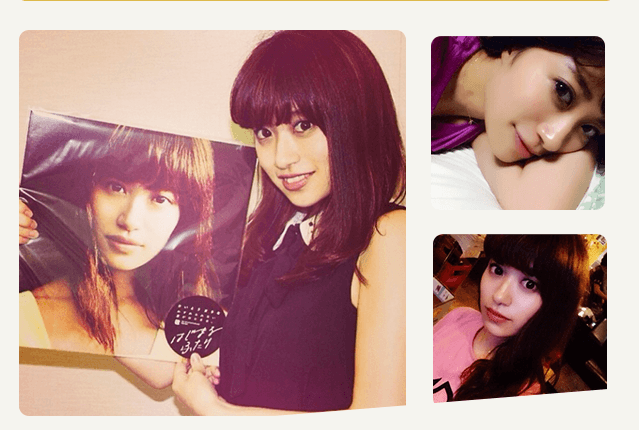
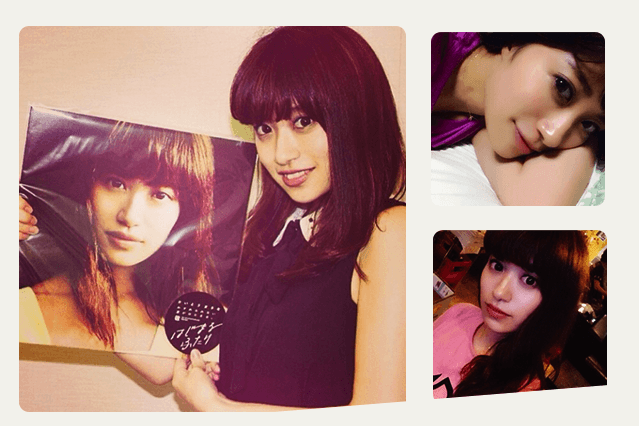
画像整理

diff --git a/sp.html b/sp.html
@@ -5,26 +5,31 @@ title: さいとうまりな official home page
 <div id="content">
 <img src="./images/marina_01.png" width="100%">
 <!--ここから白-->
+<div class="white">
 <img src="./images/sp_top_01.png" width="100%">
+</div><!-- <div class="white"> -->
 <!--ここからグレー-->
+<div class="gray">
 <img src="./images/sp_top_02.png" width="100%">
 <a class="music" onclick="_gaq.push(['_trackEvent', 'song1', '再生', 'opt_label', 1, true]);" ><audio src="/m4a/01.m4a"><p>audioタグをサポートしたブラウザで閲覧してください</p></audio><img src="./images/btn1.png" width="100%"></a>
 <a class="music" onclick="_gaq.push(['_trackEvent', 'song2', '再生', 'opt_label', 1, true]);"><audio src="/m4a/02.m4a"><p>audioタグをサポートしたブラウザで閲覧してください</p></audio><img src="./images/btn2.png" width="100%"></a>
 <a class="music" onclick="_gaq.push(['_trackEvent', 'song3', '再生', 'opt_label', 1, true]);"><audio src="/m4a/03.m4a"><p>audioタグをサポートしたブラウザで閲覧してください</p></audio><img src="./images/btn3.png" width="100%"></a>
 
-<div class="padding_gray_5px"></div>
+<div class="padding_5px"></div>
 
 <a class="music" onclick="_gaq.push(['_trackEvent', 'song4', '再生', 'opt_label', 1, true]);"><audio src="/m4a/04.m4a"><p>audioタグをサポートしたブラウザで閲覧してください</p></audio><img src="./images/btn4.png" width="100%"></a>
 
-<div class="padding_gray_10px"></div>
+<div class="padding_10px"></div>
 
 <a href="https://itunes.apple.com/jp/album/hajimaru-futari-ep/id890830196" onclick="_gaq.push(['_trackEvent', 'itunes', 'click', 'first', 1, true]);"><img src="./images/itunes.png" width="100%"></a>
 <div class="padding_gray_10px"></div>
+</div>
 <!--ここまでグレー-->
 <img src="./images/marina_02.jpg" width="100%">
 
 
 <!--ここから白-->
+<div class="white">
 <img src="./images/sp_top_03.png" width="100%">
 <img src="./images/cover_this.png" width="100%">
 
@@ -36,26 +41,29 @@ title: さいとうまりな official home page
 <div class="padding_10px"></div>
 <img src="./images/sp_top_05.png" width="100%">
 <a href="http://www.universal-music.co.jp/saito-marina" onclick="_gaq.push(['_trackEvent', 'prof', 'link', '公式ページへ', 1, true]);"><img src="./images/more.png" width="100%"></a>
-<div class="padding">
+</div>
 
+
+<div class="padding">
+<div class="gray">
 
 <!--ここからグレー-->
 <img src="./images/sns_top.png" width="100%">
 <a href="https://mobile.twitter.com/Saito_Marina" onclick="_gaq.push(['_trackEvent', 'twitter', 'link', 'opt_label', 1, true]);"><img src="./images/twitter_btn.png" width="100%"></a>
 <a href="http://instagram.com/saito_marina" onclick="_gaq.push(['_trackEvent', 'insta', 'link', 'first', 1, true]);"><img src="./images/sp_top_08.png" width="100%"></a>
 <a href="http://instagram.com/saito_marina" onclick="_gaq.push(['_trackEvent', 'insta', 'link', 'second', 1, true]);"><img src="./images/insta_btn.png" width="100%"></a>
+</div>
 <img src="./images/sns_bottom.png" width="100%">
 </div>
+
 <!--ここから白-->
+<div class="white">
 <div class="padding_10px"></div>
-
-
 <div class="padding_10px"></div>
-
 <img src="./images/marina_05.png" width="100%">
 <img src="./images/hajimaru.png" width="100%">
 <div class="padding_10px"></div>
 <a href="https://itunes.apple.com/jp/album/hajimaru-futari-ep/id890830196" onclick="_gaq.push(['_trackEvent', 'itunes', 'link', 'second', 1, true]);"><img src="./images/itunes_more.png" width="100%"></a>
 <div class="padding_10px"></div>
 </div>
-
+</div>

diff --git a/_site/sp.html b/_site/sp.html
@@ -26,26 +26,31 @@
           <div id="content">
 <img src="./images/marina_01.png" width="100%">
 <!--ここから白-->
+<div class="white">
 <img src="./images/sp_top_01.png" width="100%">
+</div><!-- <div class="white"> -->
 <!--ここからグレー-->
+<div class="gray">
 <img src="./images/sp_top_02.png" width="100%">
 <a class="music" onclick="_gaq.push(['_trackEvent', 'song1', '再生', 'opt_label', 1, true]);" ><audio src="/m4a/01.m4a"><p>audioタグをサポートしたブラウザで閲覧してください</p></audio><img src="./images/btn1.png" width="100%"></a>
 <a class="music" onclick="_gaq.push(['_trackEvent', 'song2', '再生', 'opt_label', 1, true]);"><audio src="/m4a/02.m4a"><p>audioタグをサポートしたブラウザで閲覧してください</p></audio><img src="./images/btn2.png" width="100%"></a>
 <a class="music" onclick="_gaq.push(['_trackEvent', 'song3', '再生', 'opt_label', 1, true]);"><audio src="/m4a/03.m4a"><p>audioタグをサポートしたブラウザで閲覧してください</p></audio><img src="./images/btn3.png" width="100%"></a>
 
-<div class="padding_gray_5px"></div>
+<div class="padding_5px"></div>
 
 <a class="music" onclick="_gaq.push(['_trackEvent', 'song4', '再生', 'opt_label', 1, true]);"><audio src="/m4a/04.m4a"><p>audioタグをサポートしたブラウザで閲覧してください</p></audio><img src="./images/btn4.png" width="100%"></a>
 
-<div class="padding_gray_10px"></div>
+<div class="padding_10px"></div>
 
 <a href="https://itunes.apple.com/jp/album/hajimaru-futari-ep/id890830196" onclick="_gaq.push(['_trackEvent', 'itunes', 'click', 'first', 1, true]);"><img src="./images/itunes.png" width="100%"></a>
 <div class="padding_gray_10px"></div>
+</div>
 <!--ここまでグレー-->
 <img src="./images/marina_02.jpg" width="100%">
 
 
 <!--ここから白-->
+<div class="white">
 <img src="./images/sp_top_03.png" width="100%">
 <img src="./images/cover_this.png" width="100%">
 
@@ -57,8 +62,11 @@
 <div class="padding_10px"></div>
 <img src="./images/sp_top_05.png" width="100%">
 <a href="http://www.universal-music.co.jp/saito-marina" onclick="_gaq.push(['_trackEvent', 'prof', 'link', '公式ページへ', 1, true]);"><img src="./images/more.png" width="100%"></a>
-<div class="padding">
+</div>
 
+
+<div class="padding">
+<div class="gray">
 
 <!--ここからグレー-->
 <img src="./images/sns_top.png" width="100%">
@@ -67,19 +75,19 @@
 <a href="http://instagram.com/saito_marina" onclick="_gaq.push(['_trackEvent', 'insta', 'link', 'second', 1, true]);"><img src="./images/insta_btn.png" width="100%"></a>
 <img src="./images/sns_bottom.png" width="100%">
 </div>
+</div>
+
 <!--ここから白-->
+<div class="white">
 <div class="padding_10px"></div>
-
-
 <div class="padding_10px"></div>
-
 <img src="./images/marina_05.png" width="100%">
 <img src="./images/hajimaru.png" width="100%">
 <div class="padding_10px"></div>
 <a href="https://itunes.apple.com/jp/album/hajimaru-futari-ep/id890830196" onclick="_gaq.push(['_trackEvent', 'itunes', 'link', 'second', 1, true]);"><img src="./images/itunes_more.png" width="100%"></a>
 <div class="padding_10px"></div>
 </div>
-
+</div>
 
 
           <div class="footer">

diff --git a/_site/css/sp/sp.css b/_site/css/sp/sp.css
@@ -141,5 +141,7 @@ padding-top: 10px;
 padding-top: 10px;
 background-color: #f5f4ef;
 }
-
+.gray{
+background-color: #f5f4ef;
+}
 

diff --git a/css/sp/sp.css b/css/sp/sp.css
@@ -141,5 +141,7 @@ padding-top: 10px;
 padding-top: 10px;
 background-color: #f5f4ef;
 }
-
+.gray{
+background-color: #f5f4ef;
+}
 
